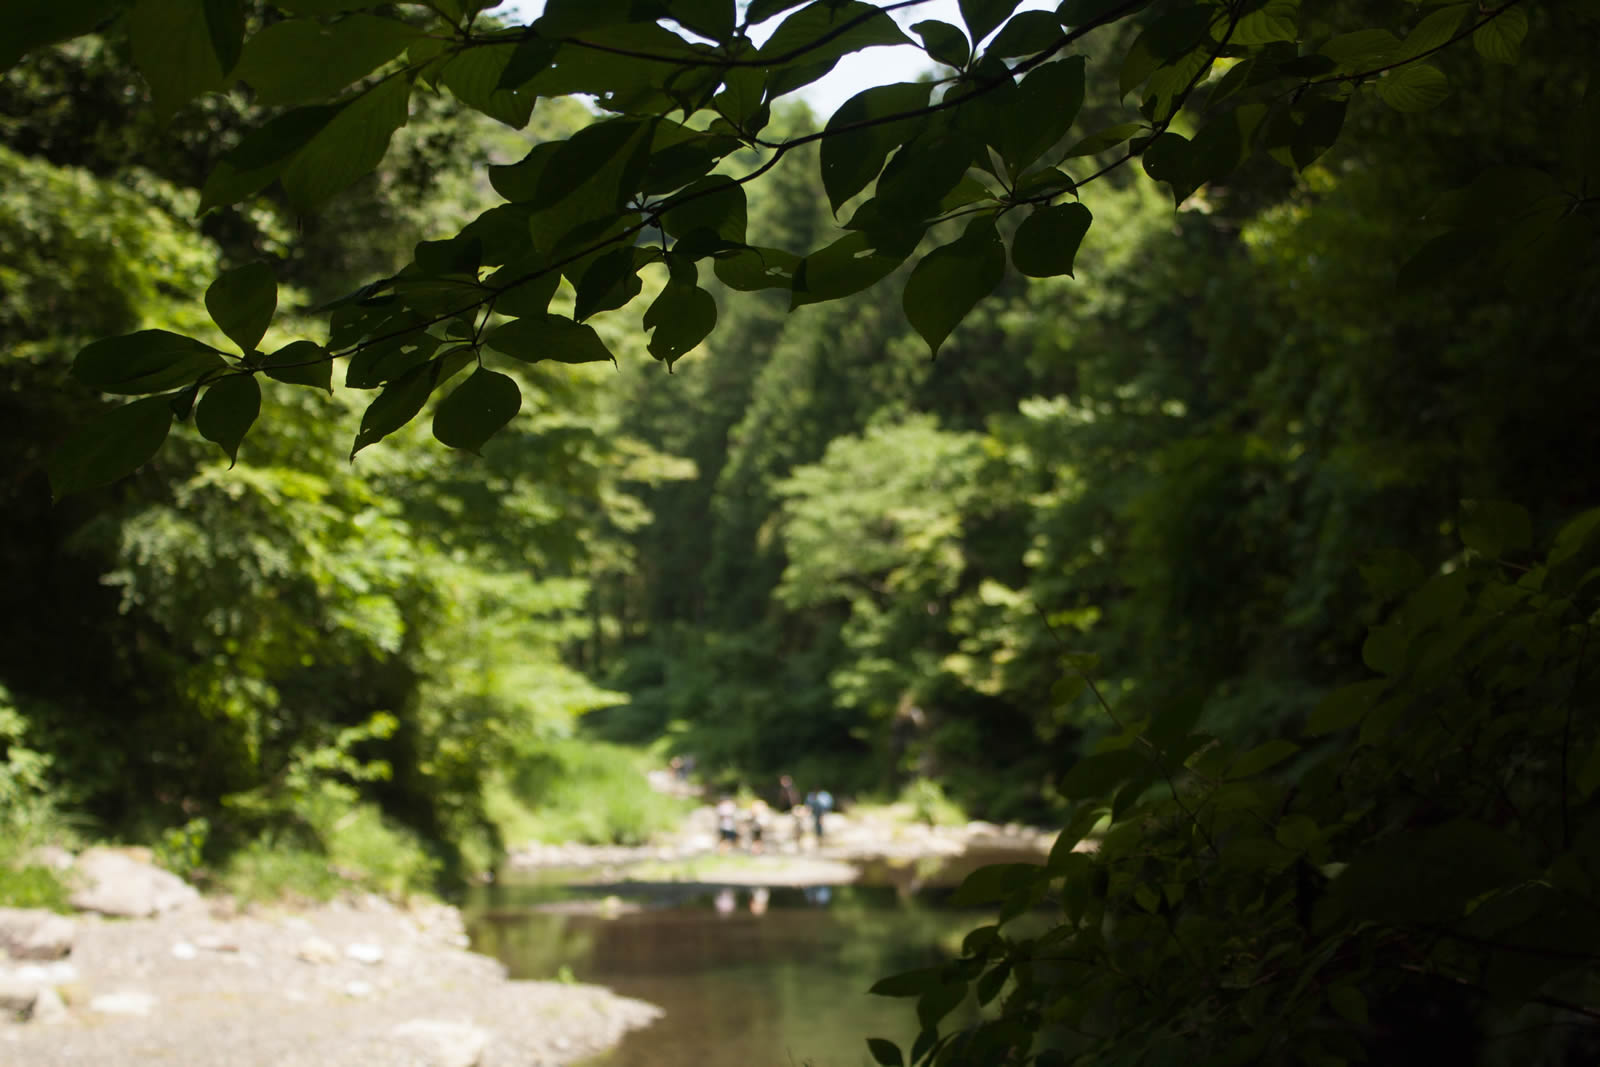
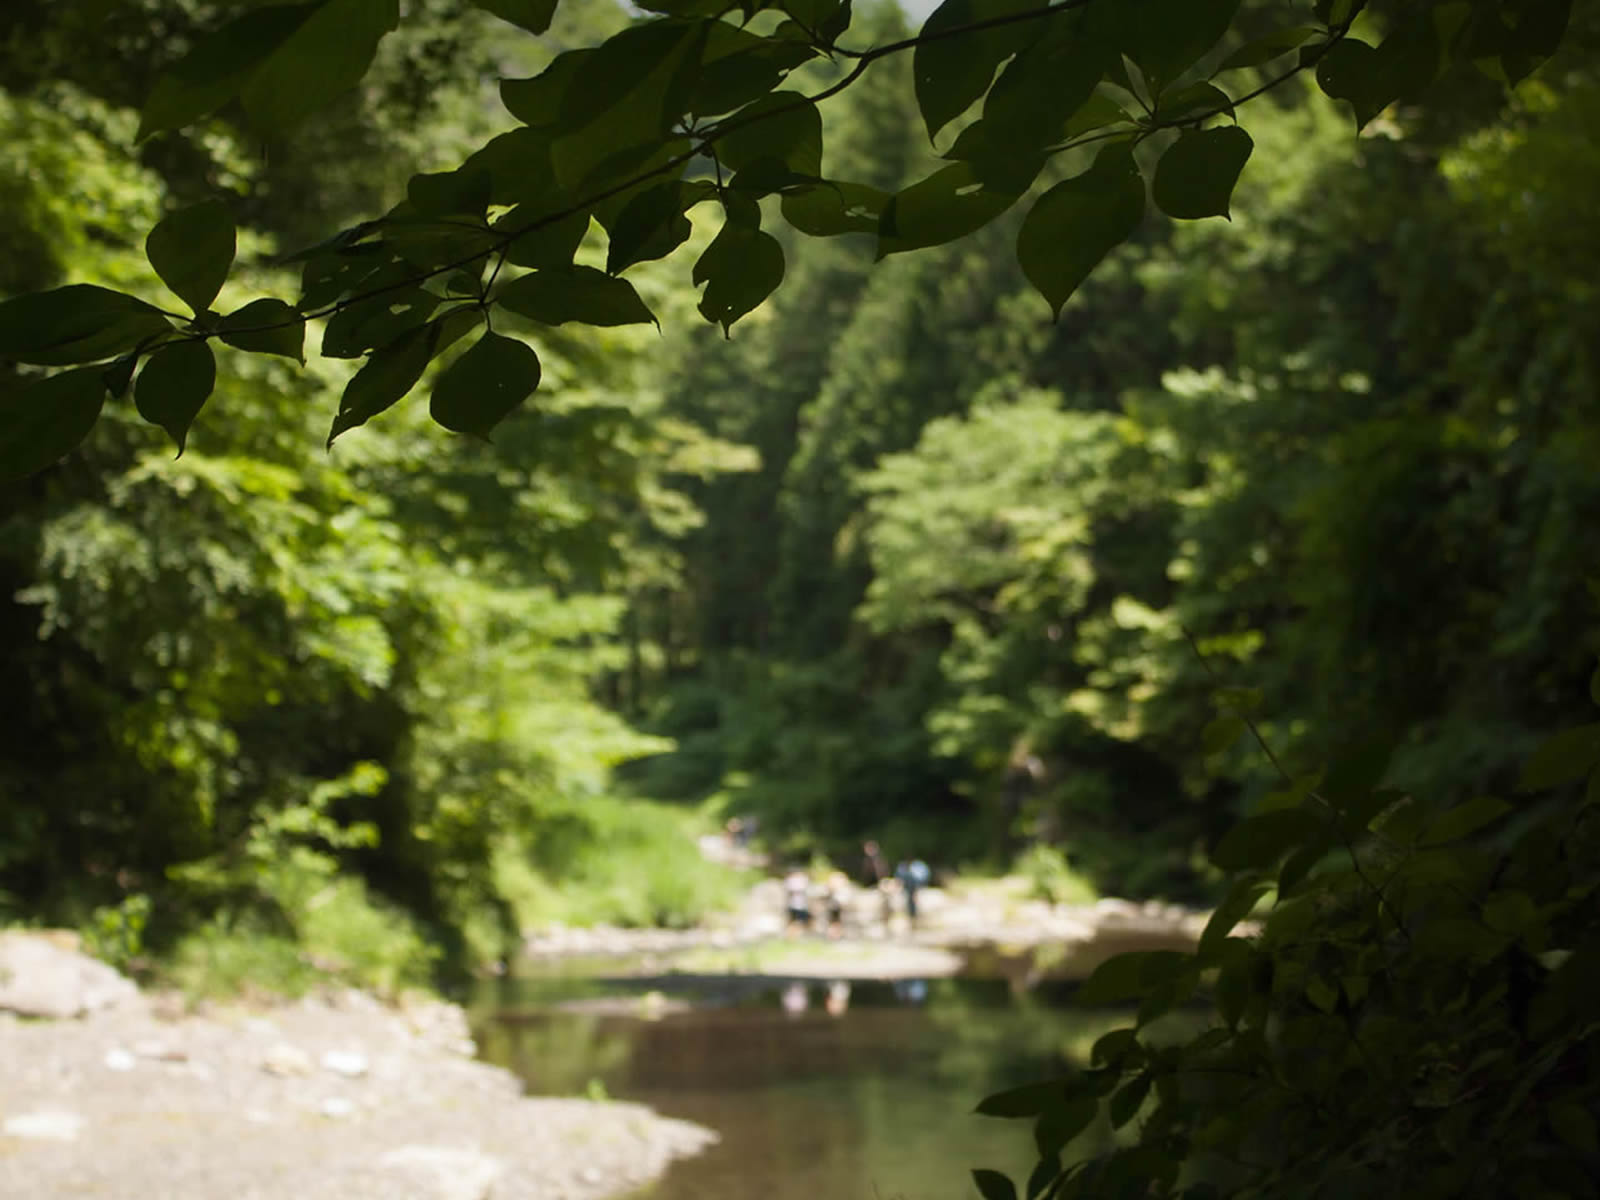
images changes with ajax now

diff --git a/themes/kuaka/src/js/main.js b/themes/kuaka/src/js/main.js
@@ -17,7 +17,12 @@ var $ = require('jquery/src/jquery');
 
 $(document).ready(function(){
   console.log('hello');
+  $('#navMain li').stop().click(function(){
+    $('#navMain li').removeClass('selected');
+    $(this).addClass('selected');
+  });
 });
+
 
 $("#contactform").submit(function(e) {
     e.preventDefault();    
@@ -39,6 +44,7 @@ $("#contactform").submit(function(e) {
 
 // Nifty stuff to load pages asynchronously:
 // https://albertarmea.com/post/async-load-hugo/
+var changeBg = '';
 function loadPage(newUrl) {
   var httpRequest = new XMLHttpRequest();
   httpRequest.onreadystatechange = function() {
@@ -49,11 +55,12 @@ function loadPage(newUrl) {
     var newDocument = httpRequest.responseXML;
     if (newDocument === null)
       return;
-
     
     var newContent = httpRequest.responseXML.getElementById("mainContent");
     var newNav = httpRequest.responseXML.getElementById("navMain");
     var newLanguage = httpRequest.responseXML.getElementById("languages");
+    var newPageBg = httpRequest.responseXML.getElementById("pageBg");
+
     if (newContent === null)
       return;
 
@@ -62,10 +69,28 @@ function loadPage(newUrl) {
     var contentElement = document.getElementById("mainContent");
     var navElement = document.getElementById("navMain");
     var languagesElement = document.getElementById("languages");
+    var pageBg = document.getElementById("pageBg");
     
     contentElement.replaceWith(newContent);
-    navElement.replaceWith(newNav);
+    
+    if($(languagesElement).find('a:nth-child(1)').hasClass('selected') != $(newLanguage).find('a:nth-child(1)').hasClass('selected')){
+      console.log('true');
+      navElement.replaceWith(newNav);
+      $('#navMain li').stop().click(function(){
+        $('#navMain li').removeClass('selected');
+        $(this).addClass('selected');
+      });
+    }
+    
     languagesElement.replaceWith(newLanguage);
+    clearTimeout(changeBg)
+    changeBg = setTimeout(function(){
+      document.documentElement.style.background = "url(" + newPageBg.value + ") no-repeat center top fixed";
+      document.documentElement.style.backgroundSize ="cover";
+    },1000);
+    
+
+
   }
 
   httpRequest.responseType = "document";

diff --git a/themes/kuaka/static/dist/app.bundle.js b/themes/kuaka/static/dist/app.bundle.js
@@ -7027,6 +7027,10 @@ var $ = __webpack_require__(62);
 
 $(document).ready(function () {
   console.log('hello');
+  $('#navMain li').stop().click(function () {
+    $('#navMain li').removeClass('selected');
+    $(this).addClass('selected');
+  });
 });
 
 $("#contactform").submit(function (e) {
@@ -7049,6 +7053,7 @@ $("#contactform").submit(function (e) {
 
 // Nifty stuff to load pages asynchronously:
 // https://albertarmea.com/post/async-load-hugo/
+var changeBg = '';
 function loadPage(newUrl) {
   var httpRequest = new XMLHttpRequest();
   httpRequest.onreadystatechange = function () {
@@ -7060,6 +7065,8 @@ function loadPage(newUrl) {
     var newContent = httpRequest.responseXML.getElementById("mainContent");
     var newNav = httpRequest.responseXML.getElementById("navMain");
     var newLanguage = httpRequest.responseXML.getElementById("languages");
+    var newPageBg = httpRequest.responseXML.getElementById("pageBg");
+
     if (newContent === null) return;
 
     document.title = newDocument.title;
@@ -7067,10 +7074,25 @@ function loadPage(newUrl) {
     var contentElement = document.getElementById("mainContent");
     var navElement = document.getElementById("navMain");
     var languagesElement = document.getElementById("languages");
+    var pageBg = document.getElementById("pageBg");
 
     contentElement.replaceWith(newContent);
-    navElement.replaceWith(newNav);
+
+    if ($(languagesElement).find('a:nth-child(1)').hasClass('selected') != $(newLanguage).find('a:nth-child(1)').hasClass('selected')) {
+      console.log('true');
+      navElement.replaceWith(newNav);
+      $('#navMain li').stop().click(function () {
+        $('#navMain li').removeClass('selected');
+        $(this).addClass('selected');
+      });
+    }
+
     languagesElement.replaceWith(newLanguage);
+    clearTimeout(changeBg);
+    changeBg = setTimeout(function () {
+      document.documentElement.style.background = "url(" + newPageBg.value + ") no-repeat center top fixed";
+      document.documentElement.style.backgroundSize = "cover";
+    }, 1000);
   };
 
   httpRequest.responseType = "document";

diff --git a/themes/kuaka/static/dist/main.css b/themes/kuaka/static/dist/main.css
@@ -5925,6 +5925,10 @@ body, html{
   font-family: 'Ubuntu', sans-serif;
 }
 
+html{
+  transition: 2.4s;
+}
+
 .bgimage{
   position: absolute;
   top: 0; left: 0;
@@ -5956,7 +5960,8 @@ body, html{
   transition: 0.3s all;
   font-weight: 300;
   letter-spacing: 0.04em;
-  text-shadow: 1px 1px 1px rgba(0, 0, 0, .1)
+  text-shadow: 1px 1px 1px rgba(0, 0, 0, .1);
+  transition: 0.3s all;
 }
 
 .main-nav a:hover{
@@ -5964,11 +5969,49 @@ body, html{
 }
 
 .main-nav .selected a{
-  border-top: 3px solid #fff;
+  position: relative;
+  border-top: 1px solid #fff
+}
+
+.main-nav .selected a:before {
+  content: '';
+  width: 100%;
+  position: absolute;
+  top: -2px;
+  left: 0;
+  height: 2px;
+  background: #fff;
+  opacity: 0;
+  -webkit-animation: 0.5s fadeIn forwards 1;
+          animation: 0.5s fadeIn forwards 1;
+}
+
+@-webkit-keyframes fadeIn{
+  0%{
+    opacity: 0;
+  }
+  100%{
+    opacity: 1;
+  }
+}
+
+@keyframes fadeIn{
+  0%{
+    opacity: 0;
+  }
+  100%{
+    opacity: 1;
+  }
 }
 
 .main-content{
-  background: #fff;
+  background: #fff
+}
+
+.main-content article {
+  opacity: 0;
+  -webkit-animation: 0.4s fadeIn forwards 1;
+          animation: 0.4s fadeIn forwards 1;
 }
 
 .home h1{
@@ -6089,11 +6132,13 @@ body, html{
   padding: 6px 15px;
   display: inline-block;
   text-decoration:none;
-  font-size: 0.8rem
+  font-size: 0.8rem;
+  opacity: 0.4
 }
 
 #languages a.selected {
   background: rgba(0, 0, 0, .4);
+  opacity: 1;
 }
 
 #languages a:first-child {

diff --git a/themes/kuaka/src/css/_styles.css b/themes/kuaka/src/css/_styles.css
@@ -7,7 +7,9 @@
 body, html{
   font-family: 'Ubuntu', sans-serif;
 }
-
+html{
+  transition: 2.4s;
+}
 .bgimage{
   position: absolute;
   top: 0; left: 0;
@@ -37,17 +39,42 @@ body, html{
   transition: 0.3s all;
   font-weight: 300;
   letter-spacing: 0.04em;
-  text-shadow: 1px 1px 1px rgba(0,0,0,0.1)
+  text-shadow: 1px 1px 1px rgba(0,0,0,0.1);
+  transition: 0.3s all;
 }
 .main-nav a:hover{
   background: rgba(255,255,255,0.1);
 }
 .main-nav .selected a{
-  border-top: 3px solid #fff;
+  position: relative;
+  border-top: 1px solid #fff;
+  &:before{
+    content: '';
+    width: 100%;
+    position: absolute;
+    top: -2px;
+    left: 0;
+    height: 2px;
+    background: #fff;
+    opacity: 0;
+    animation: 0.5s fadeIn forwards 1;
+  }
 }
 
+@keyframes fadeIn{
+  0%{
+    opacity: 0;
+  }
+  100%{
+    opacity: 1;
+  }
+}
 .main-content{
   background: #fff;
+  & article{
+    opacity: 0;
+    animation: 0.4s fadeIn forwards 1;
+  }
 }
 
 .home h1{
@@ -156,12 +183,14 @@ body, html{
 #languages a{
   color: #fff;
   background: rgba(0,0,0,0.1);
-  padding: 3px 15px;
+  padding: 6px 15px;
   display: inline-block;
   text-decoration:none;
-  font-size: 0.9rem;
+  font-size: 0.8rem;
+  opacity: 0.4;
   &.selected{
     background: rgba(0,0,0,0.4);
+    opacity: 1;
   }
   &:first-child{
     border-radius: 0 0 0 6px

diff --git a/themes/kuaka/layouts/_default/baseof.html b/themes/kuaka/layouts/_default/baseof.html
@@ -66,5 +66,14 @@
     {{ block "pre-footer" .}}{{end}}
     {{ block "footer" . }}{{ partial "site-footer.html" . }}{{ end }}
     {{ block "scripts" . }}{{ partial "site-scripts.html" . }}{{ end }}
+    {{ if .Params.Bg }}
+    <input id="pageBg" type="hidden" value="{{ .Site.BaseURL }}{{ .Params.Bg }}" />
+    {{ end }}
+    {{ range where .Data.Pages "Title" "Home" }}
+      <input id="pageBg" type="hidden" value="{{ .Site.BaseURL }}{{ .Params.Bg }}" />
+    {{ end}}
+    {{ range where .Data.Pages "Title" "Home-JP" }}
+      <input id="pageBg" type="hidden" value="{{ .Site.BaseURL }}{{ .Params.Bg }}" />
+    {{ end}}
   </body>
 </html>

diff --git a/themes/kuaka/layouts/partials/site-bg.html b/themes/kuaka/layouts/partials/site-bg.html
@@ -2,9 +2,9 @@
 <style>
   html{
     {{ if .Params.Bg }}
-    background: #193443 url({{ .Site.BaseURL }}{{ .Params.Bg }}) no-repeat center center fixed; 
+    background: #193443 url({{ .Site.BaseURL }}{{ .Params.Bg }}) no-repeat top center fixed; 
     {{ else }}
-    background: #193443 url({{ .Site.BaseURL }}/images/akl.jpg) no-repeat center center fixed; 
+    background: #193443 url({{ .Site.BaseURL }}/images/akl.jpg) no-repeat top center fixed; 
     {{ end }}
     -webkit-background-size: cover;
     -moz-background-size: cover;

diff --git a/themes/kuaka/layouts/partials/site-bg-home-jp.html b/themes/kuaka/layouts/partials/site-bg-home-jp.html
@@ -1,7 +1,7 @@
 {{ range where .Data.Pages "Title" "Home-JP" }}
 <style>
     html{
-      background: #193443 url({{ .Site.BaseURL }}{{ .Params.Bg }}) no-repeat center center fixed; 
+      background: #193443 url({{ .Site.BaseURL }}{{ .Params.Bg }}) no-repeat top center fixed; 
       -webkit-background-size: cover;
       -moz-background-size: cover;
       -o-background-size: cover;

diff --git a/themes/kuaka/layouts/partials/site-bg-home.html b/themes/kuaka/layouts/partials/site-bg-home.html
@@ -1,7 +1,7 @@
 {{ range where .Data.Pages "Title" "Home" }}
 <style>
     html{
-      background: #193443 url({{ .Site.BaseURL }}{{ .Params.Bg }}) no-repeat center center fixed; 
+      background: #193443 url({{ .Site.BaseURL }}{{ .Params.Bg }}) no-repeat top center fixed; 
       -webkit-background-size: cover;
       -moz-background-size: cover;
       -o-background-size: cover;
